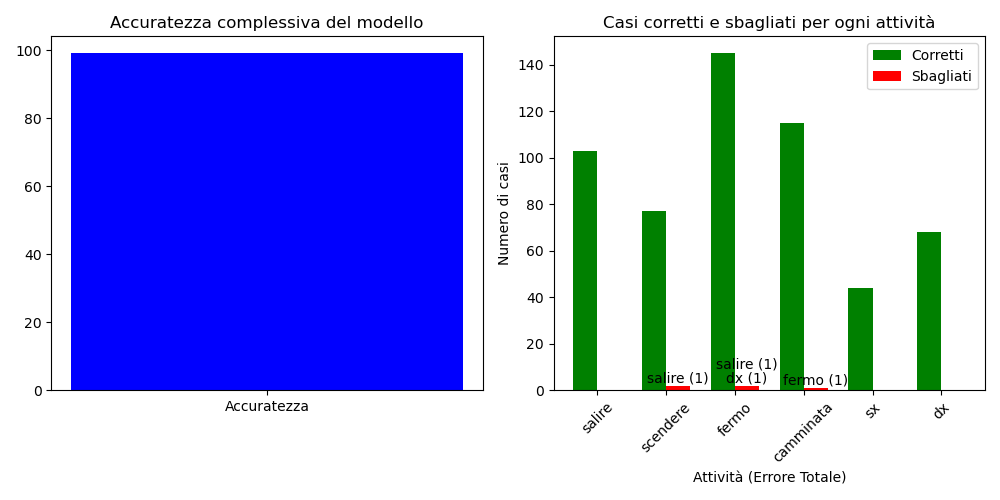
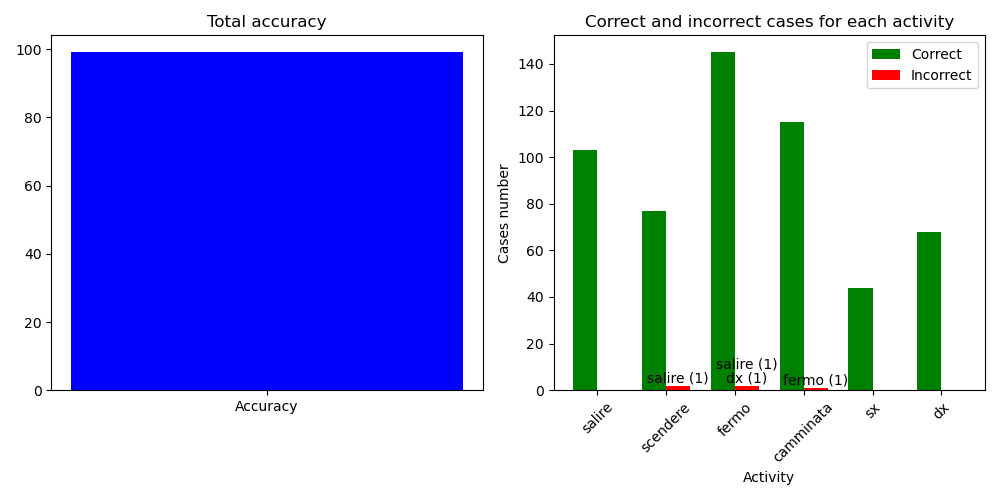
upload

diff --git a/src/grafico.py b/src/grafico.py
@@ -8,17 +8,20 @@ def plot_accuracy(attivita, correct_counts, incorrect_counts, incorrect_labels, 
     # Plot dell'accuratezza complessiva del modello
     plt.figure(figsize=(10, 5))
     plt.subplot(1, 2, 1)
-    plt.bar(['Accuratezza'], [accuracy], color='blue')
-    plt.title('Accuratezza complessiva del modello')
+    plt.bar(['Accuracy'], [accuracy], color='blue')
+    plt.title('Total accuracy')
 
     # Plot dei casi corretti e sbagliati per ogni label
     plt.subplot(1, 2, 2)
     bar_width = 0.35
-    plt.bar(labels, correct_counts, bar_width, label='Corretti', color='green')
-    plt.bar(labels + bar_width, [sum(sublist) for sublist in incorrect_counts], bar_width, label='Sbagliati', color='red')
-    plt.xlabel('Attività (Errore Totale)')
-    plt.ylabel('Numero di casi')
-    plt.title('Casi corretti e sbagliati per ogni attività')
+    plt.bar(labels, correct_counts, bar_width, label='Correct', color='green')
+    plt.bar(labels + bar_width, [sum(sublist) for sublist in incorrect_counts], bar_width, label='Incorrect', color='red')
+    plt.xlabel('Activity')
+    plt.ylabel('Cases number')
+    plt.title('Correct and incorrect cases for each activity')
+    # Traduzione delle attività in inglese
+
+
     plt.xticks(labels + bar_width / 2, attivita, rotation=45)
     
     # Aggiungi etichette sbagliate

diff --git a/src/train_testing.py b/src/train_testing.py
@@ -132,7 +132,7 @@ if __name__ == "__main__":
         grafico.run(correct_counts, incorrect_counts, incorrect_labels, acc)
         with open('output/size_testing.csv', 'w') as file:
             writer = csv.writer(file)
-            writer.writerow(["Attività", "Training set", "Testing set"])
+            writer.writerow(["Activity", "Training set", "Testing set"])
             for i in range(lungh):
                 writer.writerow([attivita[i], lista_label[i][0], lista_label[i][1]])
         os.system("cp best_solution.csv output/features_used.csv")
